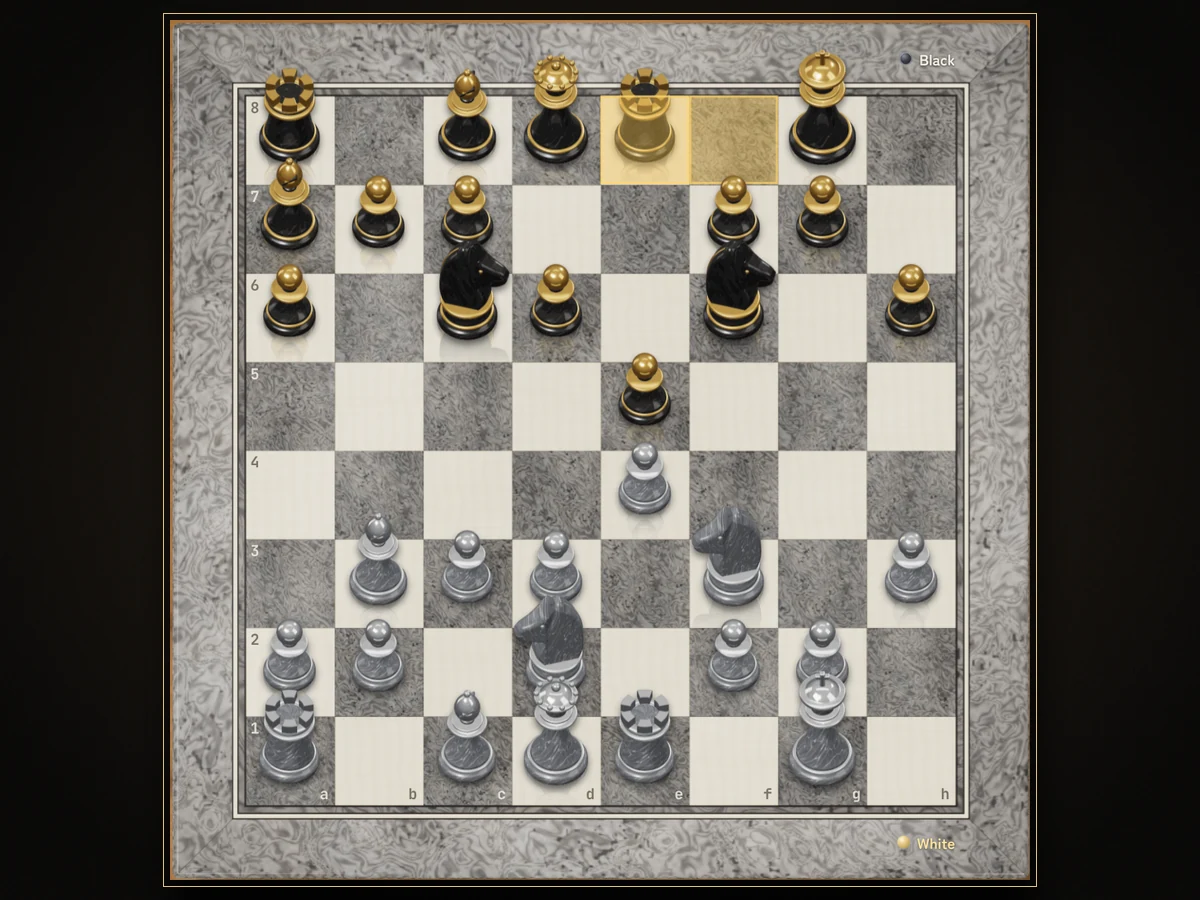
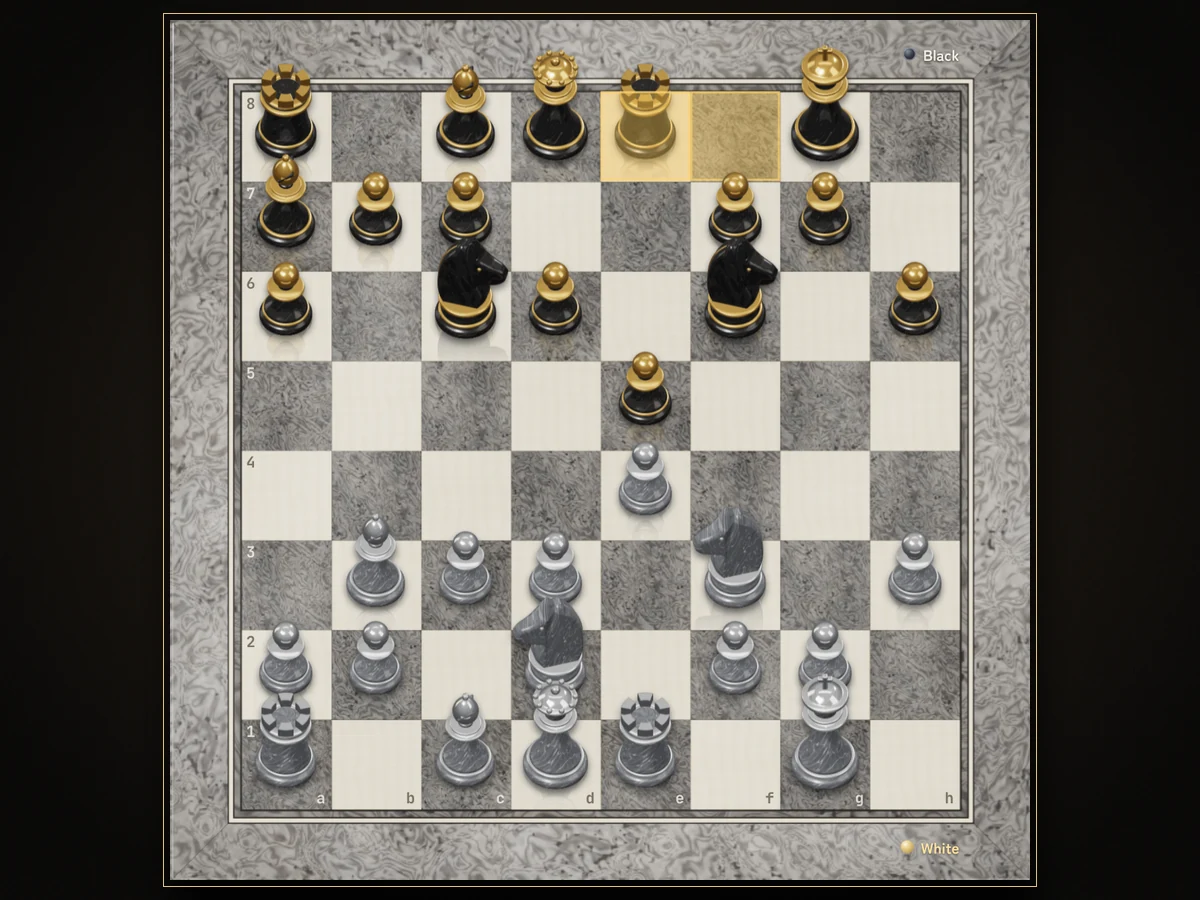
チェス: サムネイルの盤の縁に残っていた床の茶色を除去 (#742)
Claude-Session: https://claude.ai/code/session_01EiWRAXRDR9Cr8hPCoM1dCx

Changed region(s): [[0.1233, 0.0, 0.8633, 0.9956], [0.6167, 0.4978, 0.6475, 0.5289]]

diff --git a/index.html b/index.html
@@ -799,7 +799,7 @@ for (const l in I18N) if (!I18N[l]["sub.card"]) I18N[l]["sub.card"] = I18N[l]["t
    ===================================================================== */
 const GAMES = [
   { id:'shogi',      href:'./shogi/',         thumb:'images/shogi.webp?v=2',       icon:'images/icons/shogi.svg?v=2',       cat:'chess',      kind:'BOARD GAME', key:'sh',   isNew:true,  tags:['classic','ai','online','rated','daily','lessons','puzzles','openings','mobile'], facts:{ ai:19, lessons:15, puzzles:613, players:'1–2' } },
-  { id:'chess',      href:'./chess/',          thumb:'images/chess.webp?v=3',     icon:'images/icons/chess.svg',       cat:'chess',      kind:'BOARD GAME', key:'cs',   isNew:true,  tags:['classic','ai','online','rated','daily','lessons','puzzles','openings','mobile'], facts:{ ai:20, lessons:20, puzzles:445, players:'1–2' } },
+  { id:'chess',      href:'./chess/',          thumb:'images/chess.webp?v=4',     icon:'images/icons/chess.svg',       cat:'chess',      kind:'BOARD GAME', key:'cs',   isNew:true,  tags:['classic','ai','online','rated','daily','lessons','puzzles','openings','mobile'], facts:{ ai:20, lessons:20, puzzles:445, players:'1–2' } },
   { id:'xiangqi',    href:'./xiangqi/',       thumb:'images/xiangqi.webp',     icon:'images/icons/xiangqi.svg',     cat:'chess',     kind:'BOARD GAME', key:'xq',   isNew:true,  tags:['classic','ai','online','rated','daily','lessons','puzzles','openings','mobile'], facts:{ ai:20, lessons:16, puzzles:543, players:'1–2' } },
   { id:'tafl',       href:'./tafl/',          thumb:'images/tafl.webp?v=2',      icon:'images/icons/tafl.svg',        cat:'chess',     kind:'BOARD GAME', key:'tf',   isNew:true,  tags:['classic','ai','online','rated','daily','lessons','puzzles','openings','variants','mobile'], facts:{ ai:20, lessons:16, puzzles:390, players:'1–2' } },
   { id:'checkers',   href:'./checkers/',       thumb:'images/checkers.webp?v=3',    icon:'images/icons/checkers.svg',    cat:'chess',     kind:'BOARD GAME', key:'ck',   isNew:true,  tags:['classic','ai','online','rated','daily','lessons','puzzles','openings','mobile'], facts:{ ai:20, lessons:13, puzzles:500, players:'1–2' } },
